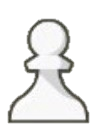
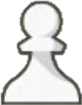
подровнял расположение шахмат(обрезал картинки и подобрал нужные координаты)

diff --git a/main_chess.py b/main_chess.py
@@ -202,12 +202,12 @@ class Pawn(Piece):
     def render(self, sprite_group, sprite_size_y=55, sprite_size_x=55, delta_y=0, delta_x=0, image_name='not_defined'):  # отрисовка фигуры
         if self.color:  # если пешка белая
             image_name = 'white_pawn.png'  # имя фаила картинки
-            sprite_size_y, sprite_size_x = 55, 60  # размеры картинки спрайта
-            delta_y, delta_x = 10, 5  # тут можно подкрутить расположение спрайта фигуры в клетке
+            sprite_size_y, sprite_size_x = 50, 60  # размеры картинки спрайта
+            delta_y, delta_x = 5, 10  # тут можно подкрутить расположение спрайта фигуры в клетке
         elif self.color is False:
             image_name = 'black_pawn.png'  # имя фаила картинки
-            sprite_size_y, sprite_size_x = 75, 75   # размеры картинки спрайта
-            delta_y, delta_x = 0, 2  # тут можно подкрутить расположение спрайта фигуры в клетке
+            sprite_size_y, sprite_size_x = 50, 60   # размеры картинки спрайта
+            delta_y, delta_x = 5, 10  # тут можно подкрутить расположение спрайта фигуры в клетке
         # вызов общего кода отрисовки в родительском классе Piece
         super().render(sprite_group, sprite_size_y, sprite_size_x, delta_y, delta_x, image_name)
 
@@ -239,12 +239,12 @@ class Rook(Piece):
     def render(self, sprite_group, sprite_size_y=55, sprite_size_x=55, delta_y=0, delta_x=0, image_name='not_defined'):
         if self.color:  # если пешка белая
             image_name = 'white_rook.png'  # имя фаила картинки
-            sprite_size_y, sprite_size_x = 55, 60  # размеры картинки спрайта
-            delta_y, delta_x = 0, 0  # тут можно подкрутить расположение спрайта фигуры в клетке
+            sprite_size_y, sprite_size_x = 50, 60  # размеры картинки спрайта
+            delta_y, delta_x = 5, 10  # тут можно подкрутить расположение спрайта фигуры в клетке
         elif self.color is False:
             image_name = 'black_rook.png'  # имя фаила картинки
-            sprite_size_y, sprite_size_x = 75, 75  # размеры картинки спрайта
-            delta_y, delta_x = 0, 0  # тут можно подкрутить расположение спрайта фигуры в клетке
+            sprite_size_y, sprite_size_x = 50, 60  # размеры картинки спрайта
+            delta_y, delta_x = 5, 10  # тут можно подкрутить расположение спрайта фигуры в клетке
         # вызов общего кода отрисовки в родительском классе Piece
         super().render(sprite_group, sprite_size_y, sprite_size_x, delta_y, delta_x, image_name)
 
@@ -260,12 +260,12 @@ class King(Piece):
     def render(self, sprite_group, sprite_size_y=55, sprite_size_x=55, delta_y=0, delta_x=0, image_name='not_defined'):
         if self.color:  # если пешка белая
             image_name = 'white_king.png'  # имя фаила картинки
-            sprite_size_y, sprite_size_x = 55, 60  # размеры картинки спрайта
-            delta_y, delta_x = 0, 0  # тут можно подкрутить расположение спрайта фигуры в клетке
+            sprite_size_y, sprite_size_x = 50, 60  # размеры картинки спрайта
+            delta_y, delta_x = 5, 10  # тут можно подкрутить расположение спрайта фигуры в клетке
         elif self.color is False:
             image_name = 'black_king.png'  # имя фаила картинки
-            sprite_size_y, sprite_size_x = 75, 75  # размеры картинки спрайта
-            delta_y, delta_x = 0, 0  # тут можно подкрутить расположение спрайта фигуры в клетке
+            sprite_size_y, sprite_size_x = 50, 60  # размеры картинки спрайта
+            delta_y, delta_x = 5, 10  # тут можно подкрутить расположение спрайта фигуры в клетке
         # вызов общего кода отрисовки в родительском классе Piece
         super().render(sprite_group, sprite_size_y, sprite_size_x, delta_y, delta_x, image_name)
 
@@ -280,12 +280,12 @@ class Queen(Piece):
     def render(self, sprite_group, sprite_size_y=55, sprite_size_x=55, delta_y=0, delta_x=0, image_name='not_defined'):
         if self.color:  # если пешка белая
             image_name = 'white_queen.png'  # имя фаила картинки
-            sprite_size_y, sprite_size_x = 55, 60  # размеры картинки спрайта
-            delta_y, delta_x = 0, 0  # тут можно подкрутить расположение спрайта фигуры в клетке
+            sprite_size_y, sprite_size_x = 60, 60  # размеры картинки спрайта
+            delta_y, delta_x = 5, 5  # тут можно подкрутить расположение спрайта фигуры в клетке
         elif self.color is False:
             image_name = 'black_queen.png'  # имя фаила картинки
-            sprite_size_y, sprite_size_x = 75, 75  # размеры картинки спрайта
-            delta_y, delta_x = 0, 0  # тут можно подкрутить расположение спрайта фигуры в клетке
+            sprite_size_y, sprite_size_x = 60, 60  # размеры картинки спрайта
+            delta_y, delta_x = 5, 5  # тут можно подкрутить расположение спрайта фигуры в клетке
         # вызов общего кода отрисовки в родительском классе Piece
         super().render(sprite_group, sprite_size_y, sprite_size_x, delta_y, delta_x, image_name)
 
@@ -300,12 +300,12 @@ class Bishop(Piece):
     def render(self, sprite_group, sprite_size_y=55, sprite_size_x=55, delta_y=0, delta_x=0, image_name='not_defined'):
         if self.color:  # если пешка белая
             image_name = 'white_bishop.png'  # имя фаила картинки
-            sprite_size_y, sprite_size_x = 55, 60  # размеры картинки спрайта
-            delta_y, delta_x = 10, 5  # тут можно подкрутить расположение спрайта фигуры в клетке
+            sprite_size_y, sprite_size_x = 50, 60  # размеры картинки спрайта
+            delta_y, delta_x = 5, 10  # тут можно подкрутить расположение спрайта фигуры в клетке
         elif self.color is False:
             image_name = 'black_bishop.png'  # имя фаила картинки
-            sprite_size_y, sprite_size_x = 75, 75  # размеры картинки спрайта
-            delta_y, delta_x = 0, 2  # тут можно подкрутить расположение спрайта фигуры в клетке
+            sprite_size_y, sprite_size_x = 50, 60  # размеры картинки спрайта
+            delta_y, delta_x = 5, 10  # тут можно подкрутить расположение спрайта фигуры в клетке
         # вызов общего кода отрисовки в родительском классе Piece
         super().render(sprite_group, sprite_size_y, sprite_size_x, delta_y, delta_x, image_name)
 
@@ -320,12 +320,12 @@ class Knight(Piece):
     def render(self, sprite_group, sprite_size_y=55, sprite_size_x=55, delta_y=0, delta_x=0, image_name='not_defined'):
         if self.color:  # если пешка белая
             image_name = 'white_knight.png'  # имя фаила картинки
-            sprite_size_y, sprite_size_x = 55, 60  # размеры картинки спрайта
-            delta_y, delta_x = 10, 5  # тут можно подкрутить расположение спрайта фигуры в клетке
+            sprite_size_y, sprite_size_x = 50, 60  # размеры картинки спрайта
+            delta_y, delta_x = 5, 10  # тут можно подкрутить расположение спрайта фигуры в клетке
         elif self.color is False:
             image_name = 'black_knight.png'  # имя фаила картинки
-            sprite_size_y, sprite_size_x = 75, 75  # размеры картинки спрайта
-            delta_y, delta_x = 0, 2  # тут можно подкрутить расположение спрайта фигуры в клетке
+            sprite_size_y, sprite_size_x = 50, 60  # размеры картинки спрайта
+            delta_y, delta_x = 5, 10  # тут можно подкрутить расположение спрайта фигуры в клетке
         # вызов общего кода отрисовки в родительском классе Piece
         super().render(sprite_group, sprite_size_y, sprite_size_x, delta_y, delta_x, image_name)
 
